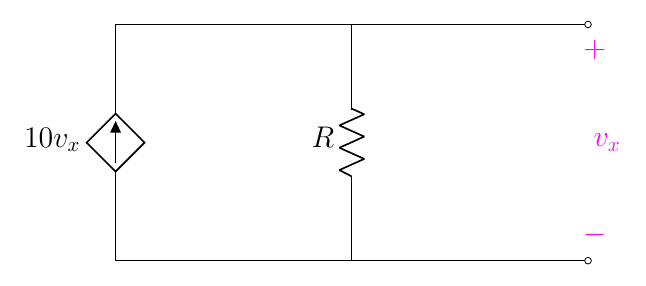
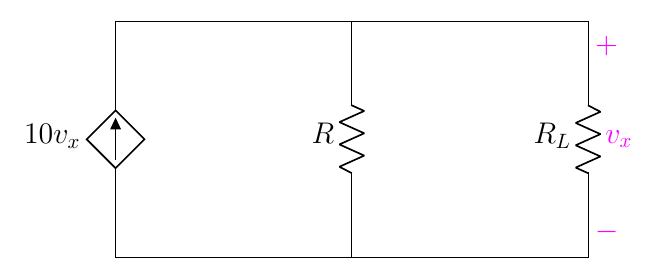
edit 0.3

diff --git a/1.8 Thevinin and Norton/0.0 new assign/0.3(new).tex b/1.8 Thevinin and Norton/0.0 new assign/0.3(new).tex
@@ -4,12 +4,12 @@
     \input{../../preamble2.tex}
 
     \draw(0,0) 
-        to[short,o-] ++(-8,0)
+        to[short] ++(-8,0)
         to[american controlled current source,l=$10v_x$] ++(0,4) 
         to[short] ++(4,0) ++(0,-4) 
         to[R,l=\rname{}] ++(0,4)
         to[short] ++(4,0)
-        to[short,-o] ++(0,0);
+        to[R,l_=\rname{L}] (0,0);
 
     %%% find %%%
     % node[anchor=west]{$a$}
@@ -18,7 +18,7 @@
     % \draw[magenta](6.7,2.7)  
         % to[open,v=$v$] ++(2,0);
 
-    \draw[magenta](-0.2,4)  
+    \draw[magenta](0,4)  
         to[open,v^=$v_x$] ++(0,-4);
 
     % \draw[circuitikz/current arrow color=magenta](-4,3.6)
